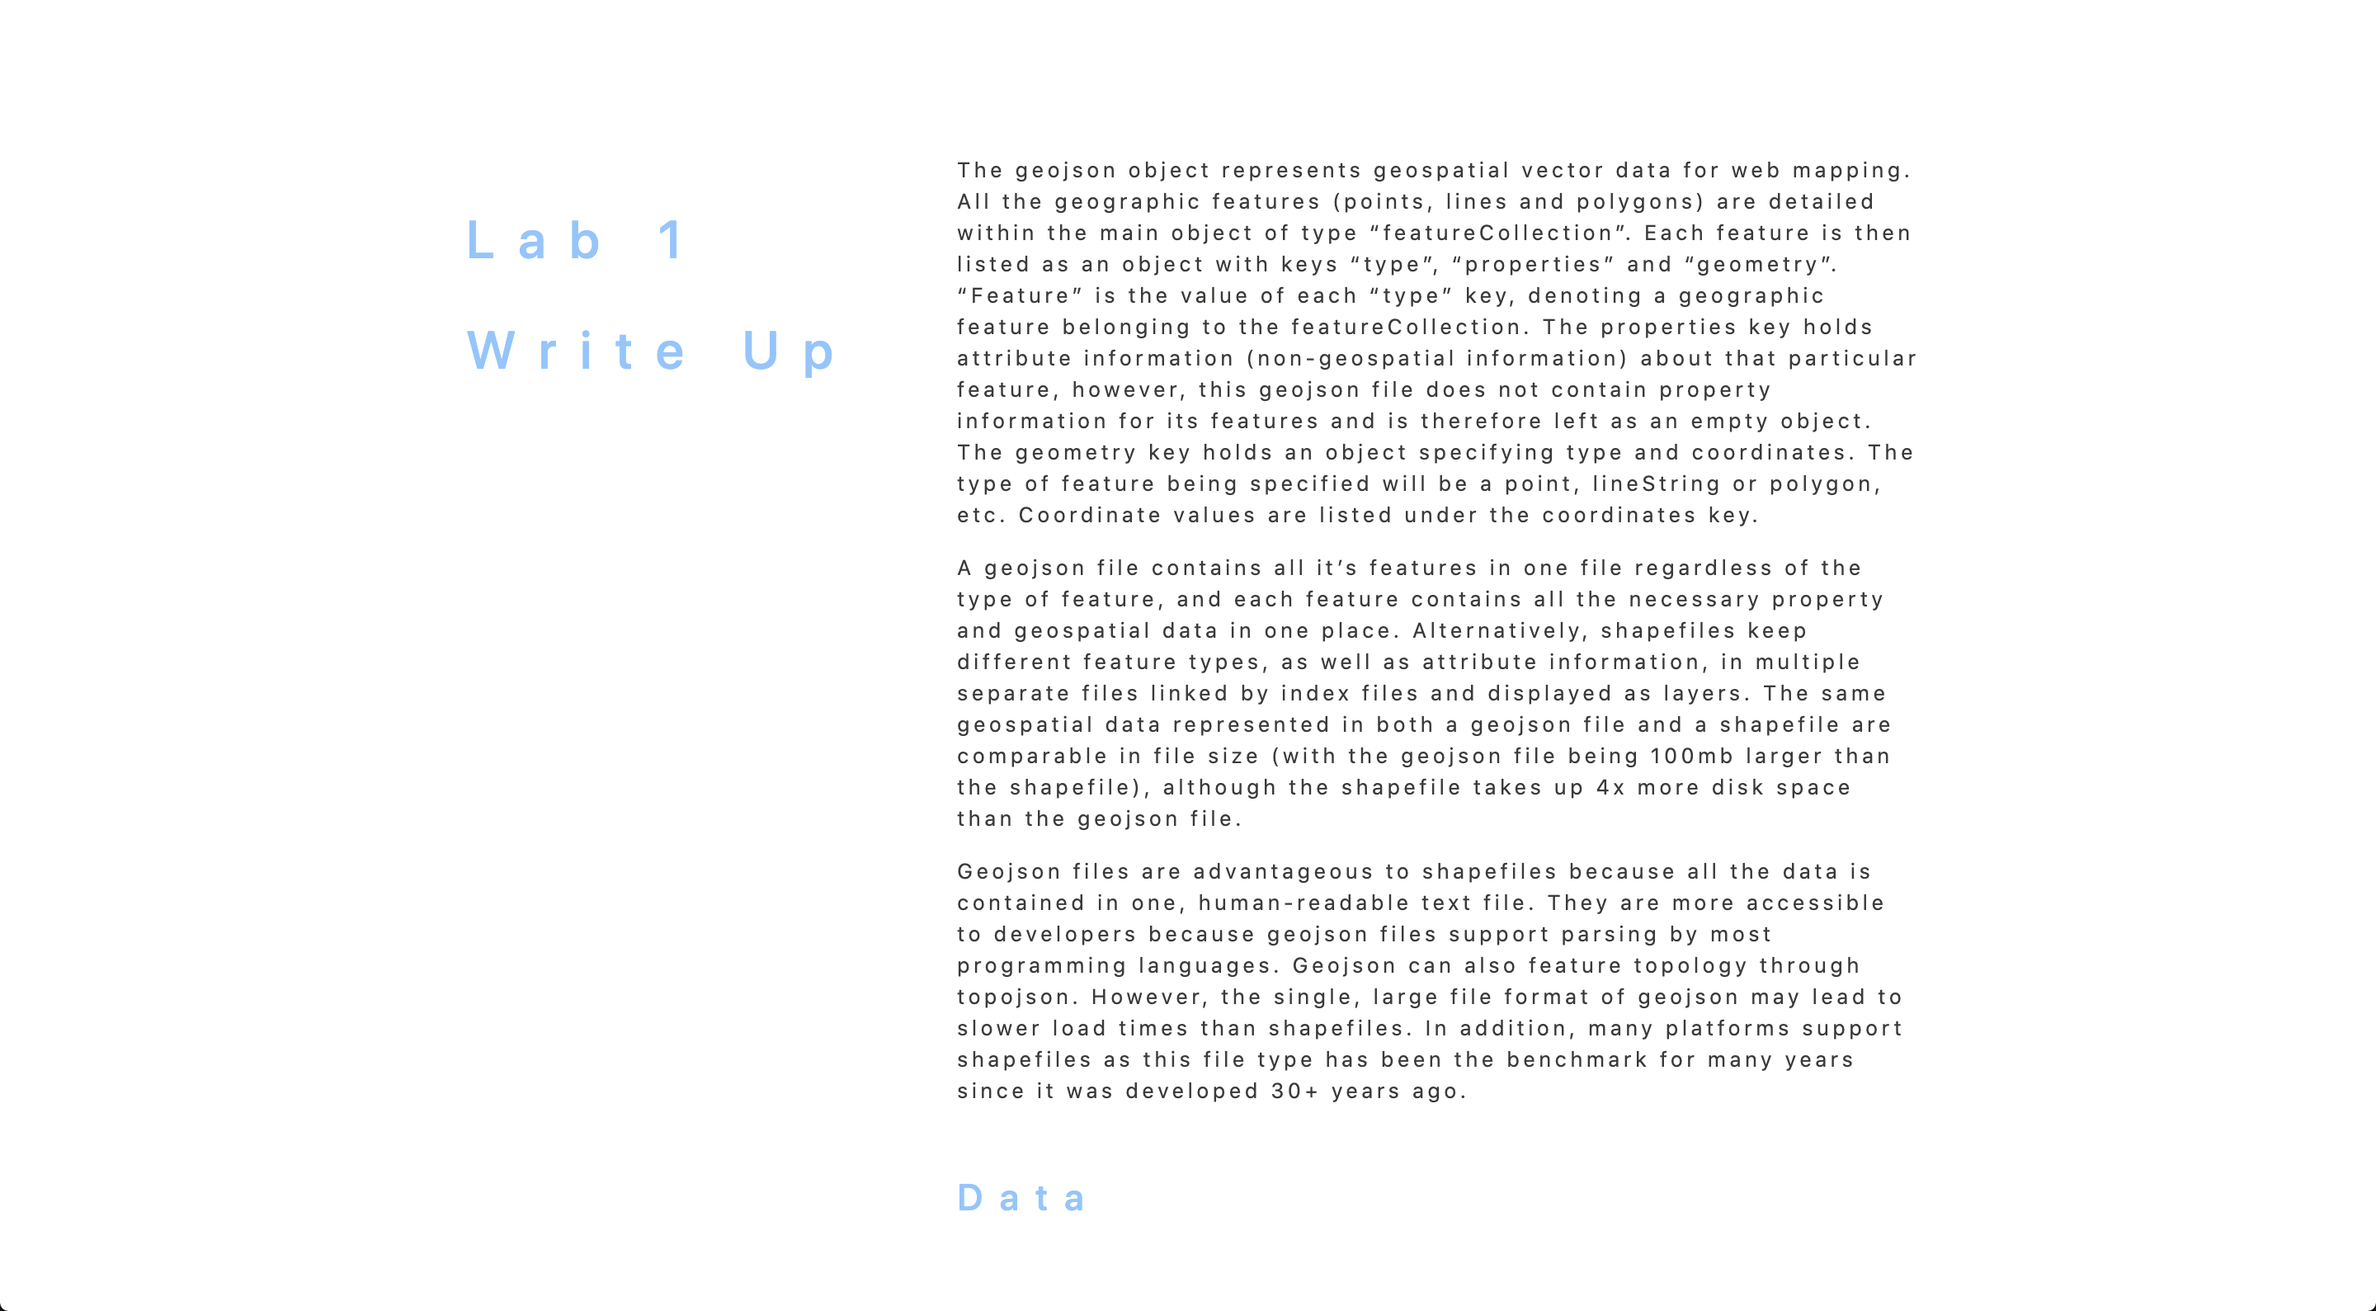
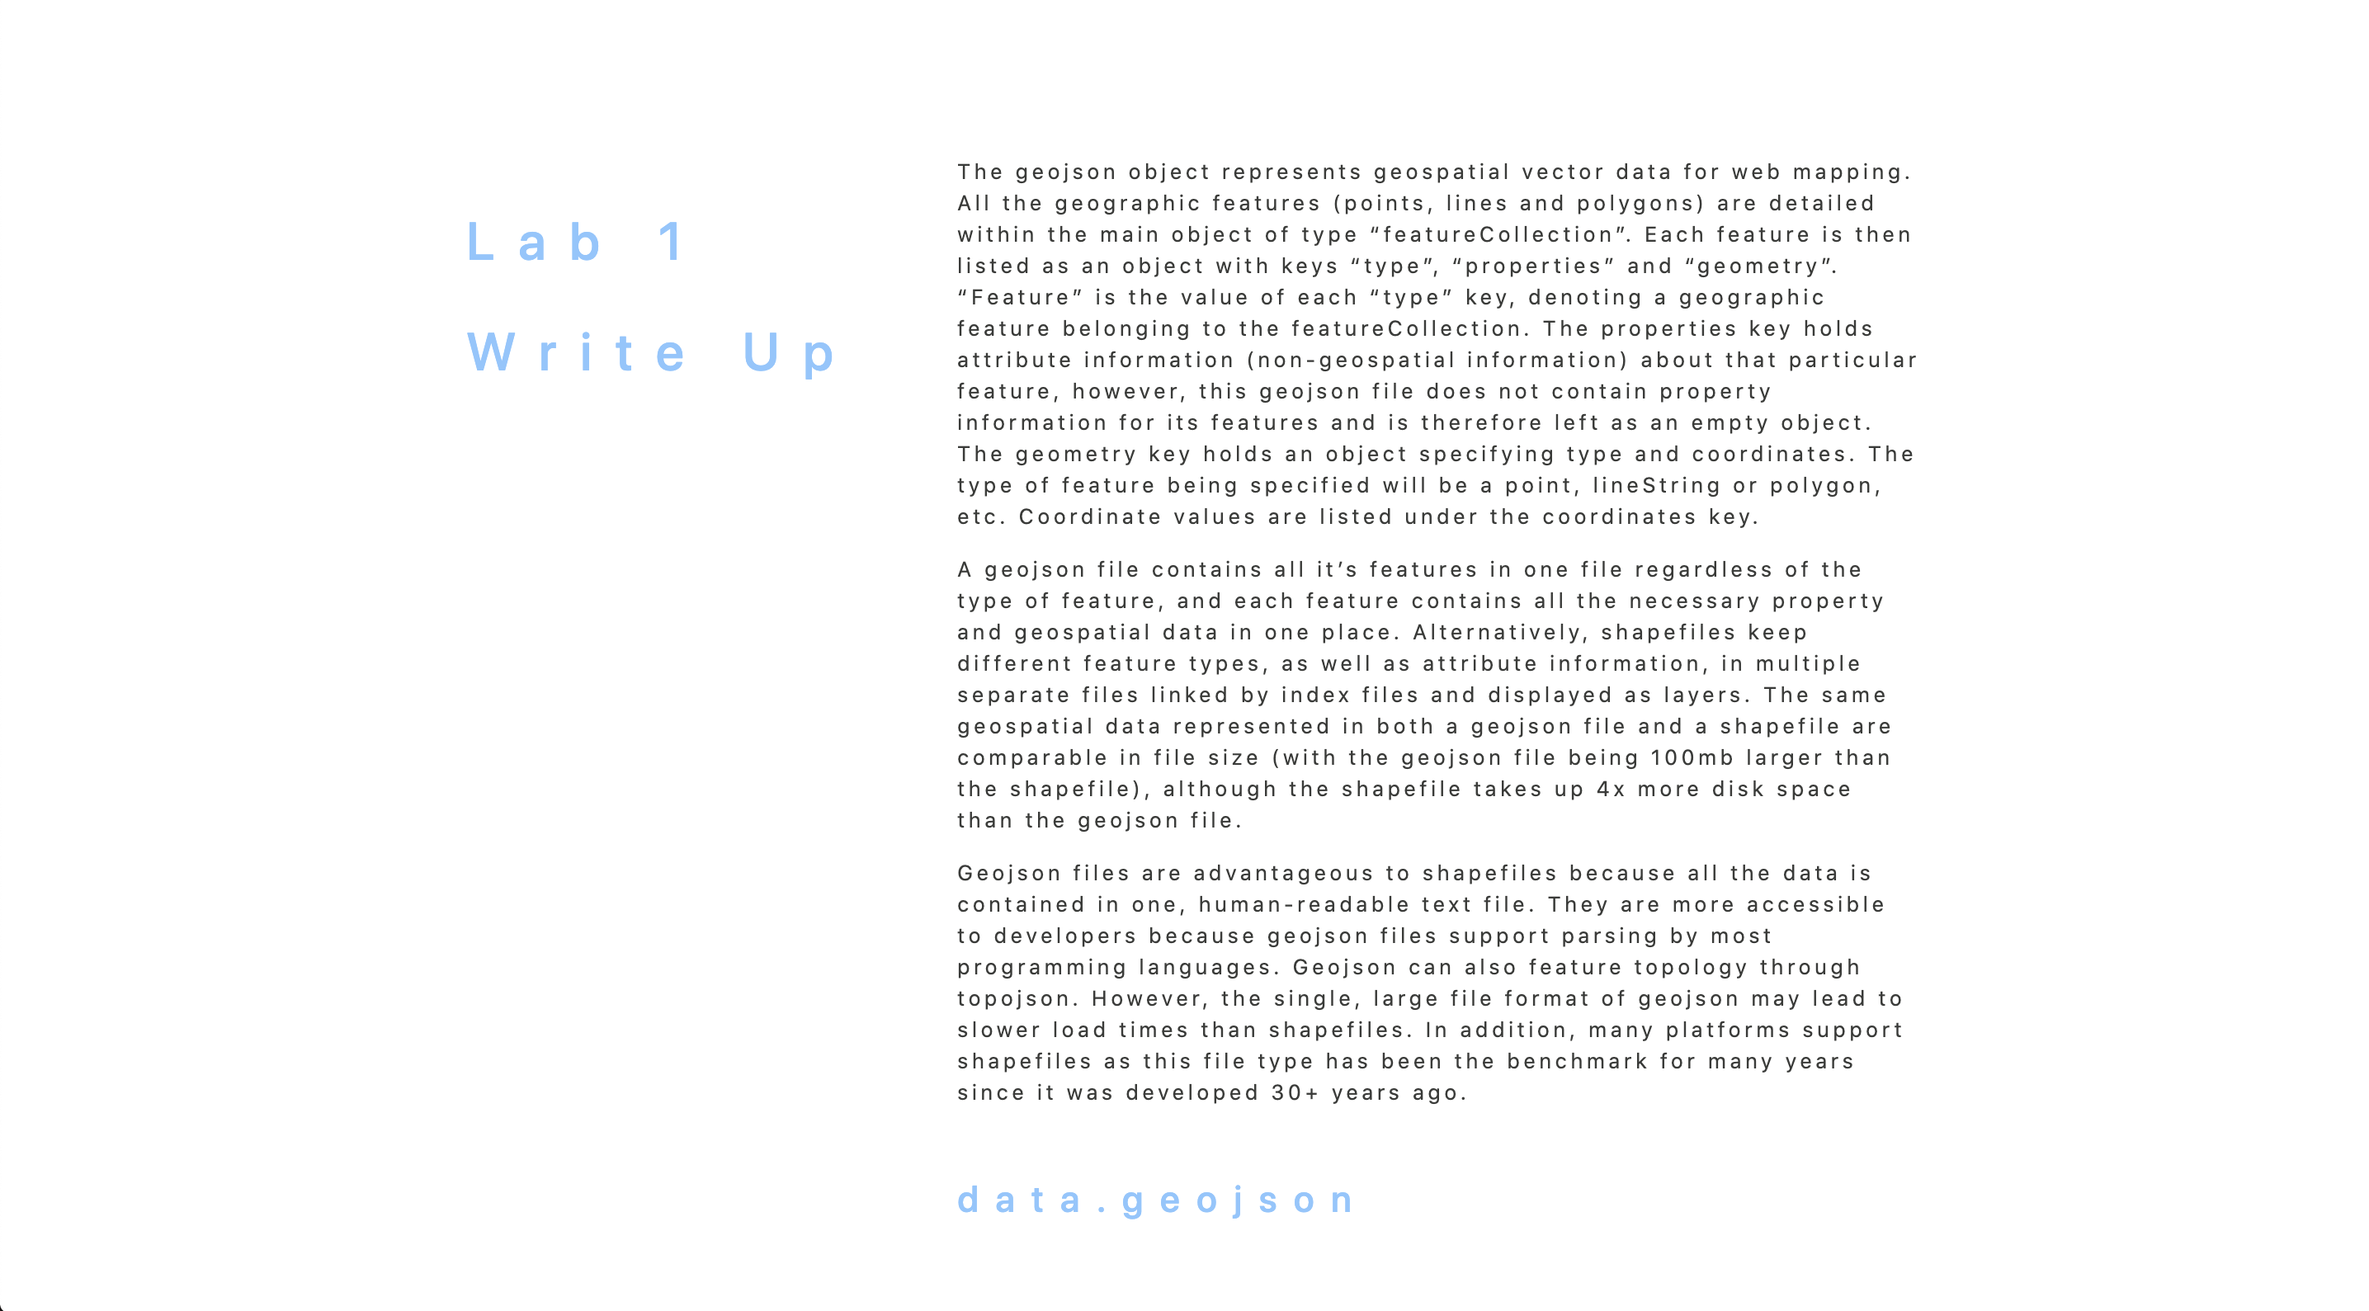
finito

diff --git a/index.html b/index.html
@@ -17,148 +17,150 @@
 <body>
   <div class='content-area'>
     <div class='name-background' style="max-width: 30%">
-      <h1 class='title'><span>Quinn's</span></h1>
+      <h1 class='title'><span>///Quinn's</span></h1>
     </div>
     <div class='title-background'>
       <h1 class='title'><span>Web Map Portfolio</span></h1>
     </div>
 
-    <!-- <iframe src="https://giphy.com/embed/3o72EX5QZ9N9d51dqo" width="480" height="250" frameBorder="0" class="giphy-embed" allowFullScreen></iframe> -->
-    <!-- <p><a href="https://giphy.com/gifs/producthunt-cats-music-streaming-3o72EX5QZ9N9d51dqo"></a></p> -->
     <br />
     <br />
     <br />
 
     <div class='content-box'>
 
-
       <div class="container">
 
         <div class="row mb-2">
-          <div class="col-sm-12 col-md-6 col-lg-4" style="margin-bottom: 25px;">
-            <a href="./lab1/lab1.html">
-              <div class="card border shadow p-2 mb-5 bg-white rounded">
-                <img src="./lab1/lab1thumb.png" class="card-img-top" alt="...">
-                <div class="card-body">
-                  <a href="./lab1/lab1.html">
-                    <h5 class="card-title"><i class="fas fa-file-alt"></i>&nbspLab 1</h5>
-                    <p class="card-text text-muted">Report detailing geojson vs. shapefile structures + <br/> advantages&disadvantages</p>
+          
+            <div class="col-sm-12 col-md-6 col-lg-4" style="margin-bottom: 25px;">
+              <a href="./lab1/lab1.html">
+                <div class="card border shadow p-2 mb-5 bg-white rounded">
+                  <img src="./lab1/lab1thumb.png" class="card-img-top" alt="...">
+                  <div class="card-body">
+                    <a href="./lab1/lab1.html">
+                      <h5 class="card-title"><i class="fas fa-file-alt"></i>&nbspLab 1</h5>
+                      <p class="card-text text-muted">Report detailing geojson vs. shapefile structures + <br /> advantages&disadvantages</p>
+                  </div>
                 </div>
-              </div>
-            </a>
+              </a>
+            </div>
+
+            <div class="col-sm-12 col-md-6 col-lg-4" style="margin-bottom: 25px;">
+              <a href="./lab2/index.html">
+                <div class="card border shadow p-2 mb-5 bg-white rounded">
+                  <img src="./lab2/lab2thumb.png" class="card-img-top" alt="...">
+                  <div class="card-body">
+                    <h5 class="card-title"><i class="fas fa-house-damage"></i>&nbspLab 2</h5>
+                    <p class="card-text text-muted">Mapping break&enters by neighbourhood in Toronto <br />+ police stations&districts <br /></p>
+                    <!-- <p class="card-text dot">.</p> -->
+                  </div>
+                </div>
+              </a>
+            </div>
+
+            <div class="col-sm-12 col-md-6 col-lg-4" style="margin-bottom: 25px;">
+              <a href="./lab3/index.html">
+                <div class="card border shadow p-2 mb-5 bg-white rounded">
+                  <img src="./lab3/lab3thumb2.png" class="card-img-top" alt="...">
+                  <div class="card-body">
+                    <h5 class="card-title"><i class="fas fa-users"></i>&nbspLab 3</h5>
+                    <p class="card-text text-muted">Map toggling total pop & pop density of Toronto dissemination areas </p>
+
+                  </div>
+                </div>
+              </a>
+            </div>
+
+            <div class="col-sm-12 col-md-6 col-lg-4" style="margin-bottom: 25px;">
+              <a href="./week5/supermarketMap.html">
+                <div class="card border shadow p-3 mb-5 bg-white rounded">
+                  <img src="./week5/week5thumb.png" alt="" class="card-img-top">
+                  <div class="card-body">
+                    <h5 class="card-title"><i class="fas fa-shopping-cart"></i>&nbspWeek 5</h5>
+                    <p class="card-text text-muted">Map showing supermarket locations in Toronto <br /> + my home-school route</p>
+
+                  </div>
+                </div>
+              </a>
+            </div>
+
+            <div class="col-sm-12 col-md-6 col-lg-4" style="margin-bottom: 25px;">
+              <a href="./week7notlWine/index.html">
+                <div class="card border shadow p-3 mb-5 bg-white rounded">
+                  <img src="./week7notlWine/week7thumb.png" alt="" class="card-img-top">
+                  <div class="card-body">
+                    <h5 class="card-title"><i class="fas fa-wine-glass-alt"></i>&nbspWeek 7</h5>
+                    <p class="card-text text-muted">Mapping niagara region wineries with hover effect and on-click popups </p>
+                  </div>
+                </div>
+              </a>
+            </div>
+
+            <div class="col-sm-12 col-md-6 col-lg-4" style="margin-bottom: 25px;">
+              <a href="./copyFinalProject/index.html">
+                <div class="card border shadow p-3 mb-5 bg-white rounded">
+                  <img src="./copyFinalProject/finalThumb.png" alt="" class="card-img-top">
+                  <div class="card-body">
+                    <h5 class="card-title"><i class="fas fa-smog"></i>&nbspFinal Project</h5>
+                    <p class="card-text text-muted">Maps showing potential chemical pollution by neighbourhood in Toronto</p>
+                  </div>
+                </div>
+              </a>
+            </div>
+
+            <div class="col-sm-12 col-md-6" style="margin-bottom: 25px;">
+              <a href="https://www.mapbox.com/">
+                <div class="card border shadow p-2 mb-3 bg-white rounded">
+                  <div class="card-body">
+                    <h5 class="card-title linkys"><i class="fas fa-globe-americas"></i> &nbsp www.mapbox.com</h5>
+                  </div>
+                </div>
+              </a>
+            </div>
+
+            <div class="col-sm-12 col-md-6" style="margin-bottom: 25px;">
+              <a href="http://www.github.com/quinn-mccallum">
+                <div class="card border shadow p-2 mb-3 bg-white rounded">
+                  <div class="card-body">
+                    <h5 class="card-title linkys"><i class="fab fa-github"></i> &nbsp my github</h5>
+                  </div>
+                </div>
+              </a>
+            </div>
+
+          <!-- row -->
           </div>
 
-          <div class="col-sm-12 col-md-6 col-lg-4" style="margin-bottom: 25px;">
-            <a href="./lab2/index.html">
-              <div class="card border shadow p-2 mb-5 bg-white rounded">
-                <img src="./lab2/lab2thumb.png" class="card-img-top" alt="...">
-                <div class="card-body">
-                  <h5 class="card-title"><i class="fas fa-house-damage"></i>&nbspLab 2</h5>
-                  <p class="card-text text-muted">Mapping break&enters by neighbourhood in Toronto <br/>+ police stations&districts <br/></p>
-                  <!-- <p class="card-text dot">.</p> -->
-                </div>
-              </div>
-            </a>
-          </div>
-
-          <div class="col-sm-12 col-md-6 col-lg-4" style="margin-bottom: 25px;">
-            <a href="./lab3/index.html">
-              <div class="card border shadow p-2 mb-5 bg-white rounded">
-                <img src="./lab3/lab3thumb2.png" class="card-img-top" alt="...">
-                <div class="card-body">
-                  <h5 class="card-title"><i class="fas fa-users"></i>&nbspLab 3</h5>
-                  <p class="card-text text-muted">Map toggleing total pop & pop density of Toronto dissemination areas </p>
-
-                </div>
-              </div>
-            </a>
-          </div>
-
-
-          <div class="col-sm-12 col-md-6 col-lg-4" style="margin-bottom: 25px;">
-            <a href="./week5/supermarketMap.html">
-              <div class="card border shadow p-3 mb-5 bg-white rounded">
-                <img src="./week5/week5thumb.png" alt="" class="card-img-top">
-                <div class="card-body">
-                  <h5 class="card-title"><i class="fas fa-shopping-cart"></i>&nbspWeek 5</h5>
-                  <p class="card-text text-muted">Map showing supermarket locations in Toronto <br/> + my home-school route</p>
-
-                </div>
-              </div>
-            </a>
-          </div>
-
-          <div class="col-sm-12 col-md-6 col-lg-4" style="margin-bottom: 25px;">
-            <a href="./week7notlWine/index.html">
-              <div class="card border shadow p-3 mb-5 bg-white rounded">
-                <img src="./week7notlWine/week7thumb.png" alt="" class="card-img-top">
-                <div class="card-body">
-                  <h5 class="card-title"><i class="fas fa-wine-glass-alt"></i>&nbspWeek 7</h5>
-                  <p class="card-text text-muted">Mapping niagara region wineries with hover effect and on-click popups </p>
-                </div>
-              </div>
-            </a>
-          </div>
-
-          <div class="col-sm-12 col-md-6 col-lg-4" style="margin-bottom: 25px;">
-            <a href="./copyFinalProject/index.html">
-              <div class="card border shadow p-3 mb-5 bg-white rounded">
-                <img src="./copyFinalProject/finalThumb.png" alt="" class="card-img-top">
-                <div class="card-body">
-                  <h5 class="card-title"><i class="fas fa-smog"></i>&nbspFinal Project</h5>
-                  <p class="card-text text-muted">Maps showing potential chemical pollution by neighbourhood in Toronto</p>
-                </div>
-              </div>
-            </a>
-          </div>
-
-          <div class="col-sm-12 col-md-6" style="margin-bottom: 25px;">
-            <a href="https://www.mapbox.com/">
-              <div class="card border shadow p-2 mb-3 bg-white rounded">
-                <!-- <img src="./copyFinalProject/finalThumb.png" alt="" class="card-img-top"> -->
-                <div class="card-body">
-                <h5 class="card-title linkys"><i class="fas fa-globe-americas"></i> &nbsp www.mapbox.com</h5>
-                  <!-- <p class="card-text text-muted">Maps showing potential chemical pollution by neighbourhood in Toronto</p> -->
-                </div>
-              </div>
-            </a>
-          </div>
-
-          <div class="col-sm-12 col-md-6" style="margin-bottom: 25px;">
-            <a href="http://www.github.com/quinn-mccallum">
-              <div class="card border shadow p-2 mb-3 bg-white rounded">
-                <!-- <img src="./copyFinalProject/finalThumb.png" alt="" class="card-img-top"> -->
-                <div class="card-body">
-                  <h5 class="card-title linkys"><i class="fab fa-github"></i> &nbsp my github</h5>
-                  <!-- <p class="card-text text-muted">Maps showing potential chemical pollution by neighbourhood in Toronto</p> -->
-                </div>
-              </div>
-            </a>
-          </div>
-
+        <!-- container -->
         </div>
 
-        <br/>
-        <br/>
-        <br/>
+        <br />
+        <br />
+        <br />
 
         <div class='title-background'>
           <h5 class='title'>
             <span>
-              Maps created for GGR472 at the &nbsp<br/>&nbsp University of Toronto
+              Maps created for GGR472 at the &nbsp<br />&nbsp University of Toronto
             </span>
           </h5>
         </div>
 
+        <br/>
+        <br/>
+
+        <p class="byQ">website built&designed by quinn</p>
+
+      <!-- content-box -->
       </div>
 
+    <!-- content-area -->
     </div>
 
-  </div>
-
-  <script src="https://code.jquery.com/jquery-3.4.1.slim.min.js" integrity="sha384-J6qa4849blE2+poT4WnyKhv5vZF5SrPo0iEjwBvKU7imGFAV0wwj1yYfoRSJoZ+n" crossorigin="anonymous"></script>
-  <script src="https://cdn.jsdelivr.net/npm/popper.js@1.16.0/dist/umd/popper.min.js" integrity="sha384-Q6E9RHvbIyZFJoft+2mJbHaEWldlvI9IOYy5n3zV9zzTtmI3UksdQRVvoxMfooAo" crossorigin="anonymous"></script>
-  <script src="https://stackpath.bootstrapcdn.com/bootstrap/4.4.1/js/bootstrap.min.js" integrity="sha384-wfSDF2E50Y2D1uUdj0O3uMBJnjuUD4Ih7YwaYd1iqfktj0Uod8GCExl3Og8ifwB6" crossorigin="anonymous"></script>
+    <script src="https://code.jquery.com/jquery-3.4.1.slim.min.js" integrity="sha384-J6qa4849blE2+poT4WnyKhv5vZF5SrPo0iEjwBvKU7imGFAV0wwj1yYfoRSJoZ+n" crossorigin="anonymous"></script>
+    <script src="https://cdn.jsdelivr.net/npm/popper.js@1.16.0/dist/umd/popper.min.js" integrity="sha384-Q6E9RHvbIyZFJoft+2mJbHaEWldlvI9IOYy5n3zV9zzTtmI3UksdQRVvoxMfooAo" crossorigin="anonymous"></script>
+    <script src="https://stackpath.bootstrapcdn.com/bootstrap/4.4.1/js/bootstrap.min.js" integrity="sha384-wfSDF2E50Y2D1uUdj0O3uMBJnjuUD4Ih7YwaYd1iqfktj0Uod8GCExl3Og8ifwB6" crossorigin="anonymous"></script>
 
 </body>
 

diff --git a/lab2/index.js b/lab2/index.js
@@ -3,7 +3,7 @@ var map = new mapboxgl.Map({
   container: 'map', //container id in HTML
   style: 'mapbox://styles/tqm/ck7qtpv8l1jzp1io1ni5q2b56', //stylesheet location
   center: [-79.3753, 43.71777], // starting point, longitude/latitude
-  zoom: 10.25 // starting zoom level
+  zoom: 10.35 // starting zoom level
 });
 
 map.on('load', function() {
@@ -61,7 +61,7 @@ map.on('load', function() {
     'layout': {},
     'paint': {
       'line-color': 'black',
-      'line-width': 2
+      'line-width': 1
     },
     'source-layer': 'Neighbourhood_Crime_Rates_Bou-4sx3fc'
   });
@@ -72,7 +72,8 @@ map.on('load', function() {
     'source': 'policeDivisionsToronto',
     'layout': {},
     'paint': {
-      'line-color': '#ffd52e',
+      // 'line-color': '#ffd52e',
+      'line-color': '#2cc7a2',
       'line-width': 3
     }
   });
@@ -94,7 +95,8 @@ map.on('load', function() {
     'source': 'policeStationsToronto',
     'layout': {},
     'paint': {
-      'circle-color': '#ffd52e',
+      // 'circle-color': '#ffd52e',
+      'circle-color': '#2cc7a2',
       'circle-radius': 7,
       'circle-stroke-color': 'black',
       'circle-stroke-width': 2

diff --git a/lab2/index.html b/lab2/index.html
@@ -96,11 +96,11 @@
       <br/>
       <div class='legend extra'>
         <div>
-          <span style='background: #ffd52e; width: 25%; margin-top: 2.5px'></span>
+          <span style='background: #2cc7a2; width: 25%; margin-top: 2.5px'></span>
           <label style='width: 35%; padding-left: 5px':>Police Division Borders</label>
         </div>
         <div style="width: 100%; padding-top: 10px;">
-          <span style='background: #ffd52e; border-radius: 50px; width: 10px; height:10px; display: inline-block;'></span>
+          <span style='background: #2cc7a2; border-radius: 50px; width: 10px; height:10px; display: inline-block;'></span>
           <label style='width: 25%; padding-left: 5px;'>Police Stations</label>
         </div>
       </div>

diff --git a/lab3/index.html b/lab3/index.html
@@ -81,8 +81,9 @@
       color: #fff;
     }
 
-    h5{
+    h4{
       color: #fff;
+      margin: 7px;
     }
 
     .l{
@@ -95,7 +96,7 @@
 
 <body>
   <nav id='menu'>
-    <h5>Toggle Map</h5>
+    <h4>Toggle Map</h4>
     <div>
       <input type="radio" class='menu' id='pop' name='layer' checked onclick=toggleMap('pop')>
       <label for="pop">Total Population</label>

diff --git a/style.css b/style.css
@@ -22,10 +22,18 @@
   color: white;
 }
 
+.byQ{
+  display: block;
+  width: 100%;
+  text-align: center;
+
+}
+
 .title-background{
-  max-width: 65%;
+  /* max-width: 65%; */
   margin: 0 auto;
   border-radius: 50px;
+  width: 100%;
 }
 
 .top-buffer { margin-bottom:20px; }

diff --git a/lab1/lab1.html b/lab1/lab1.html
@@ -45,7 +45,7 @@
           </p>
           <br />
           <a href="map.geojson">
-            <h3>Data</h3>
+            <h3>data.geojson</h3>
           </a>
         </div>
       </div>
